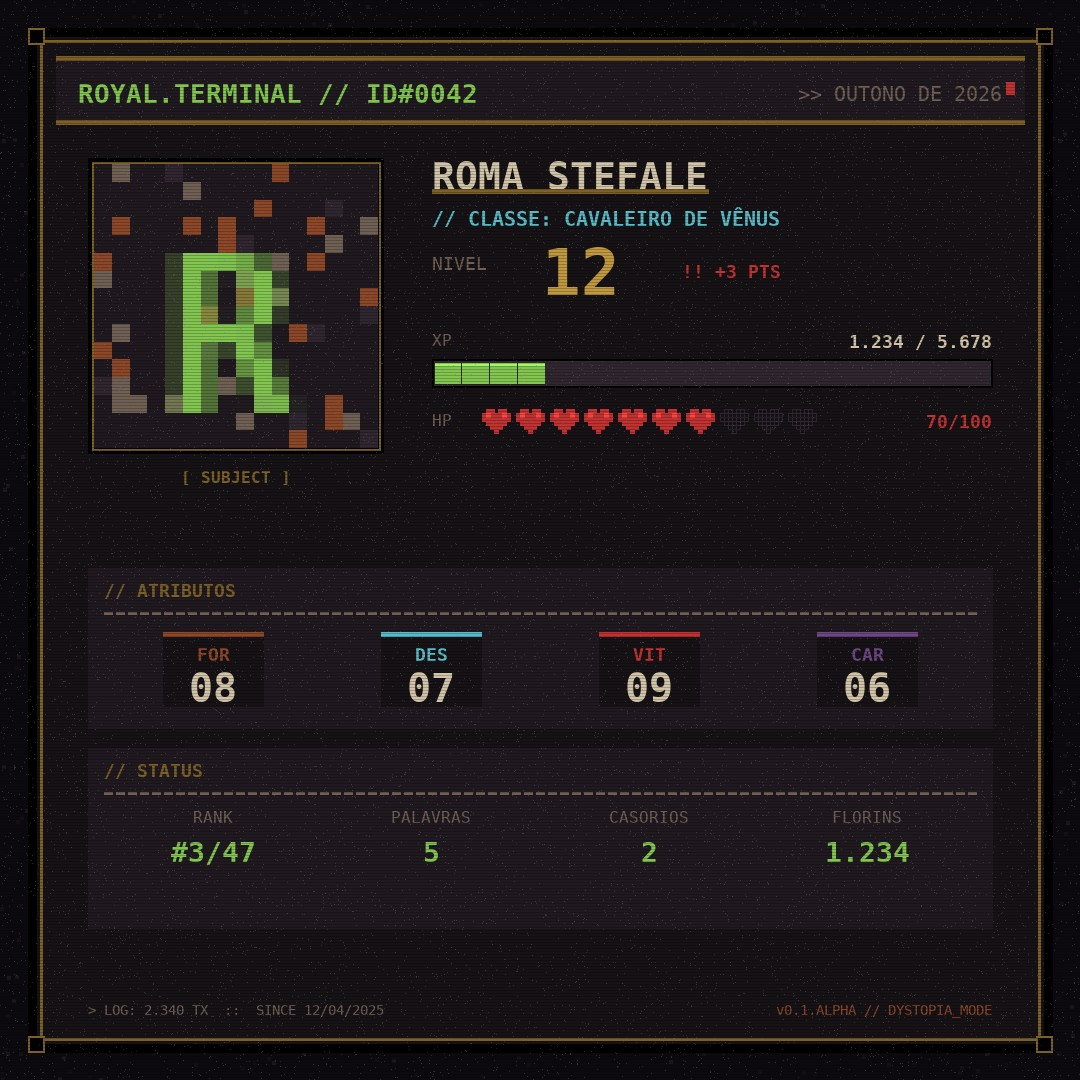
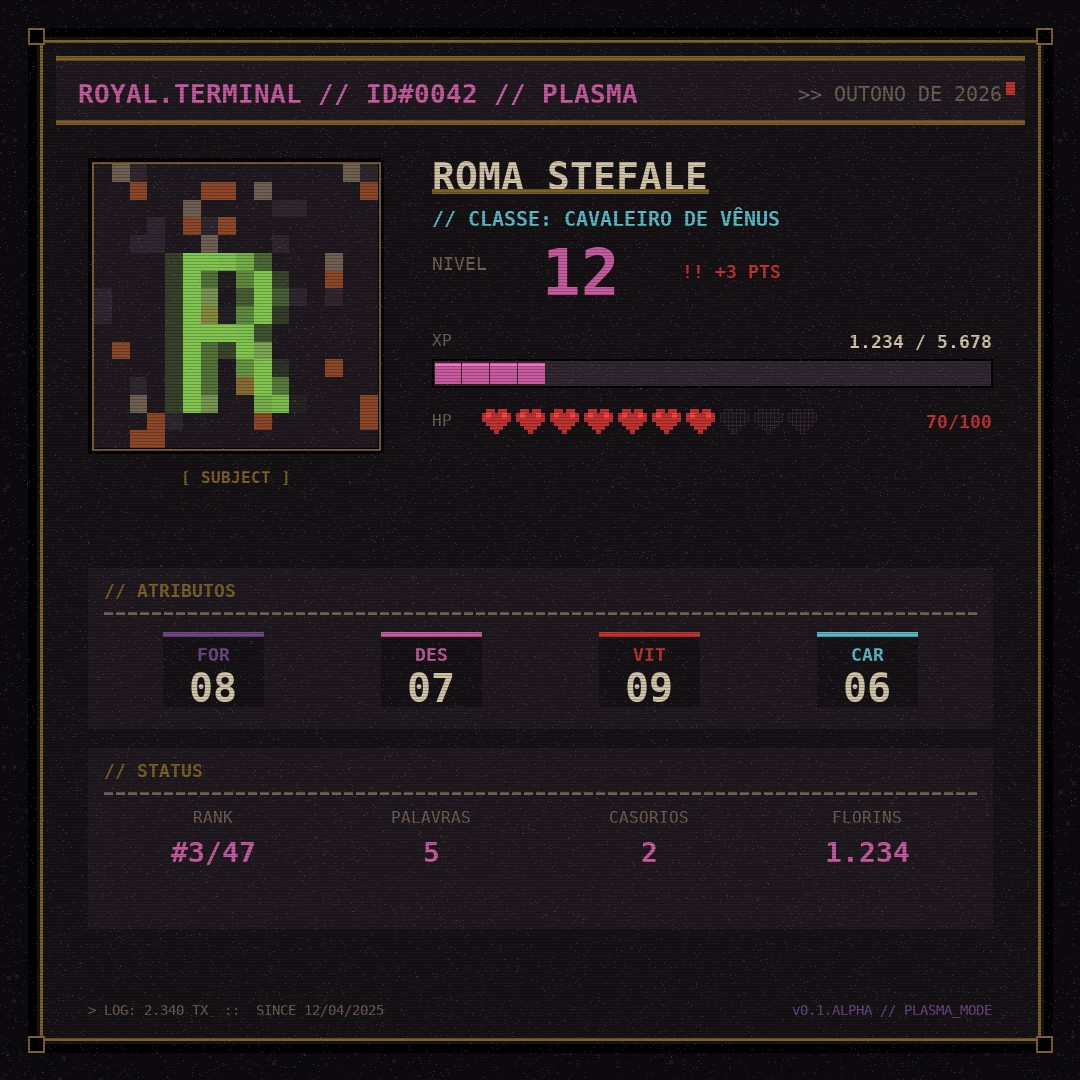
Adopt retro-futuristic visual style with customizable dark palettes
Implement a new retro-futuristic visual theme with customizable dark color palettes for a consistent and immersive user experience, alongside text-based responses to optimize performance.

Replit-Commit-Author: Agent
Replit-Commit-Session-Id: 257f6199-e128-49fb-ac76-f355be597f13
Replit-Commit-Checkpoint-Type: full_checkpoint
Replit-Commit-Event-Id: dd7a073a-cfa1-4f1c-8972-e9d9f09295f2
Replit-Helium-Checkpoint-Created: true

diff --git a/royal_render.py b/royal_render.py
@@ -35,8 +35,52 @@ GOLD = (192, 152, 64)            # ouro fosco, decadente
 GOLD_DIM = (124, 96, 38)
 RUST = (140, 70, 40)             # ferrugem
 PURPLE = (110, 70, 132)          # ametista corrompida
+AMBER = (220, 140, 60)           # CRT ambar
+MAGENTA = (200, 90, 160)         # plasma glitch
+NEON_BLUE = (80, 140, 220)       # holograma frio
+JADE = (60, 180, 130)            # bioluminescente
 WHITE = (240, 232, 220)
 BLACK = (0, 0, 0)
+
+
+# ---------------------------------------------------------------------
+# Variantes de paleta (retro-futurist dark). 1 por player.
+# Seleciona por hash do royal_id pra manter consistencia entre renders.
+# ---------------------------------------------------------------------
+PALETTE_VARIANTS = [
+    # 0 — toxic hospital (verde acido + ferrugem)
+    {"name": "TOXIC",   "header": ACID,    "footer": RUST,
+     "level": GOLD,     "xp": ACID,
+     "chips": [RUST, CYAN, HOT, PURPLE]},
+    # 1 — CRT ambar (terminal antigo)
+    {"name": "AMBER",   "header": AMBER,   "footer": RUST,
+     "level": AMBER,    "xp": AMBER,
+     "chips": [AMBER, GOLD, HOT, JADE]},
+    # 2 — plasma violet (glitch sintetico)
+    {"name": "PLASMA",  "header": MAGENTA, "footer": PURPLE,
+     "level": MAGENTA,  "xp": MAGENTA,
+     "chips": [PURPLE, MAGENTA, HOT, CYAN]},
+    # 3 — arctic monitor (frio clinico)
+    {"name": "ARCTIC",  "header": NEON_BLUE, "footer": CYAN,
+     "level": CYAN,     "xp": NEON_BLUE,
+     "chips": [CYAN, NEON_BLUE, HOT, PURPLE]},
+    # 4 — biolab (verde jade + ouro)
+    {"name": "BIOLAB",  "header": JADE,    "footer": ACID,
+     "level": GOLD,     "xp": JADE,
+     "chips": [JADE, ACID, HOT, AMBER]},
+    # 5 — sangue real (vinho real corrompido)
+    {"name": "BLOOD",   "header": HOT,     "footer": RUST,
+     "level": GOLD,     "xp": HOT,
+     "chips": [HOT, GOLD, AMBER, RUST]},
+]
+
+
+def pick_palette(seed: str | int | None) -> dict:
+    """Retorna 1 variante de paleta determinada pelo seed (royal_id)."""
+    if seed is None:
+        return PALETTE_VARIANTS[0]
+    h = abs(hash(str(seed))) % len(PALETTE_VARIANTS)
+    return PALETTE_VARIANTS[h]
 
 
 # ---------------------------------------------------------------------
@@ -328,8 +372,10 @@ def _draw_label_value(draw, *, x, y, label, value,
 
 def render_profile_card(data: ProfileCardData,
                         avatar_bytes: bytes | None) -> bytes | None:
-    """Renderiza cartao 8-bit dystopian. Retorna bytes JPEG ou None."""
+    """Renderiza cartao 8-bit dystopian. Retorna bytes JPEG ou None.
+    Paleta varia por royal_id (5+ variantes retro-futuristas dark)."""
     try:
+        pal = pick_palette(data.royal_id)
         # fundo base
         img = Image.new("RGB", (CARD_SIZE, CARD_SIZE), BG_DEEP)
         draw = ImageDraw.Draw(img)
@@ -359,10 +405,10 @@ def render_profile_card(data: ProfileCardData,
 
         title_font = load_font(26, mono=True, bold=True)
         season_font = load_font(20, mono=True, bold=False)
-        # "ROYAL.TERMINAL // ID#0042"
-        title = f"ROYAL.TERMINAL // ID#{data.royal_id.replace('RYL-', '')}"
+        title = (f"ROYAL.TERMINAL // ID#{data.royal_id.replace('RYL-', '')} "
+                 f"// {pal['name']}")
         draw.text((header_box[0] + 22, header_box[1] + 22),
-                  title, font=title_font, fill=ACID)
+                  title, font=title_font, fill=pal["header"])
         # season a direita
         season_txt = f">> {data.season.upper()}"
         sw, _ = text_size(draw, season_txt, season_font)
@@ -414,7 +460,7 @@ def render_profile_card(data: ProfileCardData,
         lvl_y = ay - 4 + nh + 70
         draw.text((info_x, lvl_y), "NIVEL", font=lvl_label_font, fill=DIM)
         draw.text((info_x + 110, lvl_y - 18),
-                  f"{data.level:02d}", font=lvl_num_font, fill=GOLD)
+                  f"{data.level:02d}", font=lvl_num_font, fill=pal["level"])
         if data.pts_available > 0:
             pts_font = load_font(18, mono=True, bold=True)
             pts_txt = f"!! +{data.pts_available} PTS"
@@ -432,7 +478,7 @@ def render_profile_card(data: ProfileCardData,
                   xp_val, font=xp_val_font, fill=INK)
         draw_chunky_bar(draw, (info_x, xp_y + 28, info_x + info_w, xp_y + 56),
                         data.xp_in_level, data.xp_needed,
-                        fill=ACID, bg=PANEL_HI, segments=20)
+                        fill=pal["xp"], bg=PANEL_HI, segments=20)
 
         # HP em coracoes pixel art
         hp_y = xp_y + 80
@@ -467,10 +513,10 @@ def render_profile_card(data: ProfileCardData,
             pixel_rect(draw, (dx, dash_y, dx + 8, dash_y + 2), DIM)
 
         attrs = [
-            ("FOR", data.attr_for, RUST),
-            ("DES", data.attr_des, CYAN),
-            ("VIT", data.attr_vit, HOT),
-            ("CAR", data.attr_car, PURPLE),
+            ("FOR", data.attr_for, pal["chips"][0]),
+            ("DES", data.attr_des, pal["chips"][1]),
+            ("VIT", data.attr_vit, pal["chips"][2]),
+            ("CAR", data.attr_car, pal["chips"][3]),
         ]
         attr_label_font = load_font(18, mono=True, bold=True)
         attr_val_font = load_font(40, mono=True, bold=True)
@@ -521,19 +567,19 @@ def render_profile_card(data: ProfileCardData,
                       lbl, font=st_label_font, fill=DIM)
             vw, _ = text_size(draw, val, st_val_font)
             draw.text((cx - vw // 2, status_box[1] + 88),
-                      val, font=st_val_font, fill=ACID)
+                      val, font=st_val_font, fill=pal["xp"])
 
         # ===== Rodape: footer terminal =====
         foot_font = load_font(14, mono=True, bold=False)
         foot_left = (
             f"> LOG: {format_br(data.msg_count)} TX  ::  SINCE {data.joined_str}"
         )
-        foot_right = "v0.1.ALPHA // DYSTOPIA_MODE"
+        foot_right = f"v0.1.ALPHA // {pal['name']}_MODE"
         draw.text((OUT_PAD + 60, CARD_SIZE - OUT_PAD - 50),
                   foot_left, font=foot_font, fill=DIM)
         fw, _ = text_size(draw, foot_right, foot_font)
         draw.text((CARD_SIZE - OUT_PAD - 60 - fw, CARD_SIZE - OUT_PAD - 50),
-                  foot_right, font=foot_font, fill=RUST)
+                  foot_right, font=foot_font, fill=pal["footer"])
 
         # ===== Pos processamento CRT =====
         img = img.convert("RGBA")

diff --git a/main.py b/main.py
@@ -516,6 +516,51 @@ GROUP_ONLY_MSG = (
 )
 
 
+# =====================================================================
+# UX VOZ — terminal retro-futurista dystopian (combina com royal_render)
+# Use term_block() pra QUALQUER resposta de texto do bot. Fica leve
+# (sem render de imagem) mas mantem identidade visual do reino.
+# =====================================================================
+
+def term_block(title: str, body: str, *,
+               status: str = "OK",
+               status_color: str = "ACID",
+               stamp: str | None = None) -> str:
+    """
+    Resposta padrao em formato terminal retro:
+
+        > TITLE.SYS  // <status>
+        ─────────────────────────
+        body (pode usar <b>, <i>, <code>, <pre>, etc.)
+        <i>[ stamp ]</i>
+
+    Usa <code> no header e <blockquote expandable> quando o body for grande.
+    `status_color`: ACID (verde), HOT (vermelho), AMBER (laranja), CYAN.
+    """
+    status_emoji = {
+        "ACID": "🟢", "HOT": "🔴", "AMBER": "🟡", "CYAN": "🔵",
+    }.get(status_color, "🟢")
+    head = f"<code>&gt; {html.escape(title.upper())}.SYS</code>  {status_emoji} <i>{html.escape(status)}</i>"
+    parts = [head, body.strip()]
+    if stamp:
+        parts.append(f"<i>[ {html.escape(stamp)} ]</i>")
+    return "\n".join(parts)
+
+
+def term_pre(rows: list[tuple[str, str]]) -> str:
+    """Tabela 2-col em <pre> (monospace) — chave alinhada esquerda, valor direita."""
+    if not rows:
+        return ""
+    key_w = max(len(k) for k, _ in rows)
+    val_w = max(len(str(v)) for _, v in rows)
+    width = key_w + val_w + 6  # 6 = padding " :: "
+    lines = []
+    for k, v in rows:
+        pad = " " * (width - key_w - len(str(v)) - 4)
+        lines.append(f"{k.upper():<{key_w}} ::{pad}{v}")
+    return "<pre>" + html.escape("\n".join(lines)) + "</pre>"
+
+
 def ensure_chat(chat_id: int, title: str | None = None) -> None:
     cur.execute(
         """
@@ -1271,12 +1316,14 @@ def hub_keyboard_main() -> InlineKeyboardMarkup:
 
 
 def hub_text() -> str:
-    return (
-        f"👑 <b>Reino Royal</b>  ·  {current_season_label()}\n"
-        f"\n"
-        f"<i>Bem-vindo de volta, nobre.</i>\n"
-        f"Toque num botão pra navegar pela corte 👇"
+    body = (
+        "<b>// REINO ROYAL</b> — terminal de comando ativo.\n"
+        "<i>Bem-vindo de volta, nobre.</i>\n"
+        "<blockquote>Toque num botão abaixo pra navegar pela corte 👇</blockquote>"
     )
+    return term_block("ROYAL", body,
+                      status="CONECTADO",
+                      stamp=current_season_label())
 
 
 # =====================================================================
@@ -1982,10 +2029,14 @@ async def royal_saldo(message: Message):
         return
     p = ensure_player(message.chat.id, message.from_user.id)
     db.commit()
-    await message.answer(
-        f"🪙 Suas arcas guardam <b>{p['gold']}</b> florins.\n"
+    gold_br = f"{int(p['gold']):,}".replace(",", ".")
+    body = (
+        f"🪙 Suas arcas guardam <b><code>{gold_br}</code></b> florins.\n"
         f"<i>Gasta com sabedoria em /royalloja.</i>"
     )
+    await message.answer(term_block("FLORINS", body,
+                                    status="SALDO_OK",
+                                    stamp=f"ID {p.get('royal_id', 'RYL-????')}"))
 
 
 # === /royalranking ===
@@ -2081,9 +2132,15 @@ async def royal_priv(message: Message):
                 else "🏆 Estou no ranking")
     stats_btn = ("🙈 Stats detalhados ocultos" if hide_stats
                  else "📊 Stats detalhados visíveis")
+    rows = [
+        ("RANKING", "OCULTO" if hide_rank else "VISIVEL"),
+        ("STATS DETALHADOS", "OCULTOS" if hide_stats else "VISIVEIS"),
+    ]
+    body = f"{term_pre(rows)}<i>Toca nos botões pra alternar.</i>"
     await message.answer(
-        "🔒 <b>Privacidade</b>\n\n"
-        "<i>Toca pra alternar:</i>",
+        term_block("PRIVACIDADE", body,
+                   status="CONFIG", status_color="CYAN",
+                   stamp="dados sob seu controle"),
         reply_markup=InlineKeyboardMarkup(inline_keyboard=[
             [InlineKeyboardButton(text=rank_btn, callback_data="r:priv:rank")],
             [InlineKeyboardButton(text=stats_btn, callback_data="r:priv:stats")],

diff --git a/replit.md b/replit.md
@@ -1,4 +1,4 @@
-# Royal Casorios
+# Royal Casorios → Royal RPG
 
 Telegram bot construído com aiogram (Python 3.12). Roda como worker (sem frontend), persistindo dados em SQLite local.
 
@@ -6,10 +6,68 @@ Telegram bot construído com aiogram (Python 3.12). Roda como worker (sem fronte
 
 ## Estrutura
 - `main.py` — código principal do bot
-- `requirements.txt` — dependências Python
+- `royal_render.py` — gerador de cards 1080×1080 (Pillow puro, sem Chromium)
+- `royal_words.py` — palavras e charadas pro mini-game
+- `requirements.txt` — dependências (`aiogram`, `Pillow`)
 - Requer secret `BOT_TOKEN`
 
 ## User preferences
 - Sempre usar as versões mais atualizadas das APIs:
   - **Telegram Bot API: 10**
   - **aiogram: última versão estável** (atualmente 3.28.2, lançada em 10/05/2026)
+
+## 🎨 Identidade visual — Retro-futurist dystopian
+
+Tudo que o bot envia segue essa linguagem (texto **e** imagens).
+
+### Conceito
+- **8-bit retrô** (terminal CRT velho, monospace, ASCII art)
+- **Futurista** (`>>`, `//`, `[BRACKETS]`, `ID#0042`, `v0.1.ALPHA`)
+- **Dark/dystopian** (paleta sempre escura, cores ácidas como acento, sem brilho moderno)
+- **Cores variando por player** — cada `royal_id` recebe uma paleta consistente (TOXIC, AMBER, PLASMA, ARCTIC, BIOLAB, BLOOD)
+
+### Quando gerar imagem (caro/lento) vs caption (rápido)
+- **Card 1080×1080:** só pra momentos de destaque (perfil, ranking pódio, casório, boss derrotado).
+- **Caption / texto puro:** padrão pra TODO o resto. Usar `term_block()` e `term_pre()` (em `main.py`).
+- Cards usam `asyncio.to_thread(render_xxx_card, ...)` pra não travar o loop.
+
+### Voz padrão (texto puro)
+Use os helpers em `main.py`:
+- `term_block(title, body, status="OK", status_color="ACID|HOT|AMBER|CYAN", stamp=None)` — header `> TITLE.SYS // STATUS` + corpo + stamp opcional
+- `term_pre(rows)` — tabela monospace `KEY :: VALUE` em `<pre>`
+
+Convenções de tom:
+- Título em CAPS, formato `PALAVRA.SYS`
+- Prefixos: `>` (saída do terminal), `>>` (sub-comando), `//` (comentário), `!!` (alerta)
+- Status: `OK`, `CONECTADO`, `CONFIG`, `ALERTA`, `OFFLINE`, etc.
+- Stamp final em itálico entre `[ ... ]`
+
+### Formatação HTML do Telegram (usar TUDO)
+`<b>` `<i>` `<u>` `<s>` `<code>` `<pre>` `<a>` `<blockquote>` `<blockquote expandable>` `<tg-spoiler>`
+
+Caption de foto tem **limite de 1024 chars** — sempre incluir guarda no código.
+
+### Efeitos de mensagem (Bot API 7.7)
+Helper `effect_kw(chat_type, EFFECT_*)` em `main.py`:
+- `EFFECT_PARTY` 🎉 boas-vindas, ganhar Palavra
+- `EFFECT_FIRE` 🔥 dano crítico, golpe final no boss
+- `EFFECT_HEART` ❤ casório
+- `EFFECT_THUMBS_UP`, `EFFECT_POO`, `EFFECT_THUMBS_DOWN`
+
+⚠ Só funciona em **DM 1:1** — sempre passar `**effect_kw(message.chat.type, ID)`.
+
+### Chat actions
+Helper `safe_typing(chat_id, "typing" | "upload_photo")` — não exige admin, falha silenciosamente.
+
+### Paleta dystopian (`royal_render.py`)
+- `BG_DEEP` `#0C0A0E` — vazio
+- `BG` `#16121A` — painel
+- `INK` `#D2C4A8` — texto bone
+- `DIM` `#706054` — texto secundário
+- Acentos rotativos: `HOT` (sangue), `ACID` (toxic), `CYAN` (holograma), `GOLD`, `RUST`, `PURPLE`, `AMBER`, `MAGENTA`, `NEON_BLUE`, `JADE`
+
+### Pós-processamento de cards
+Sempre aplicar:
+1. `apply_scanlines(img, every=3, alpha=55)` — CRT
+2. `apply_vignette(img, strength=160)` — distopia
+3. `apply_grain(img, intensity=18)` — TV velha
